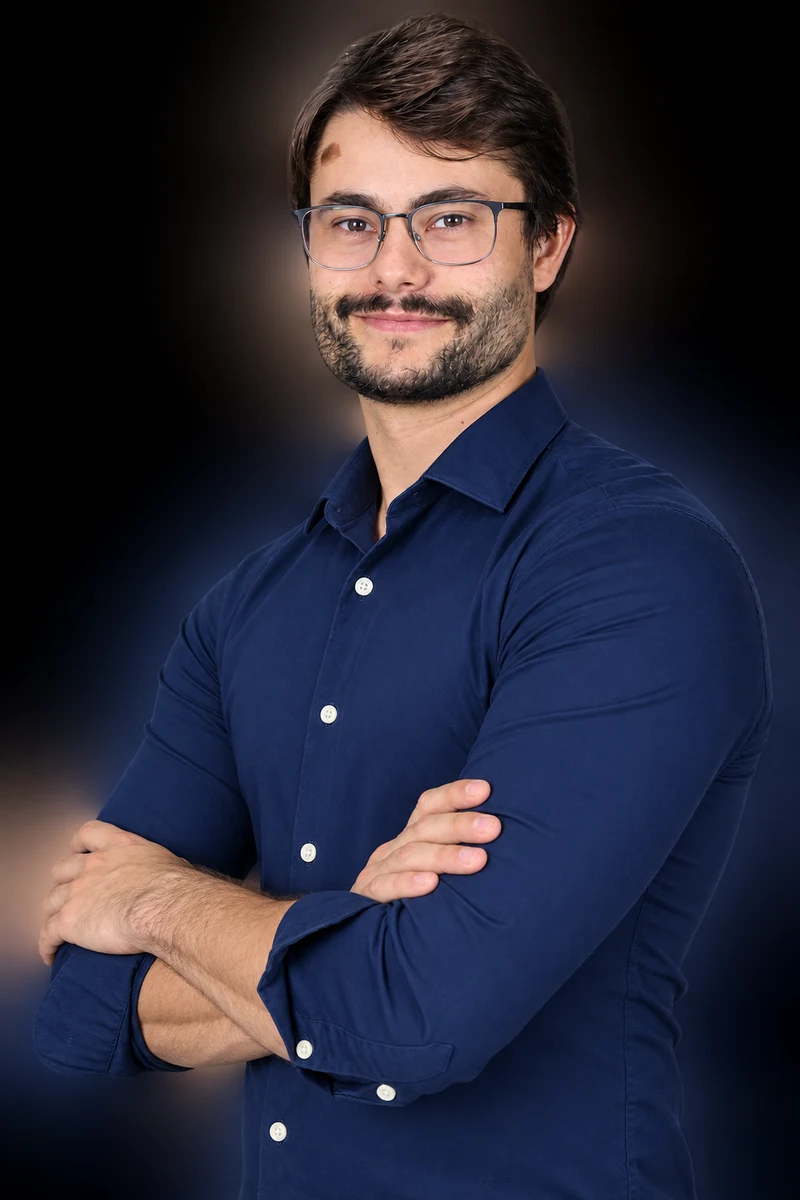
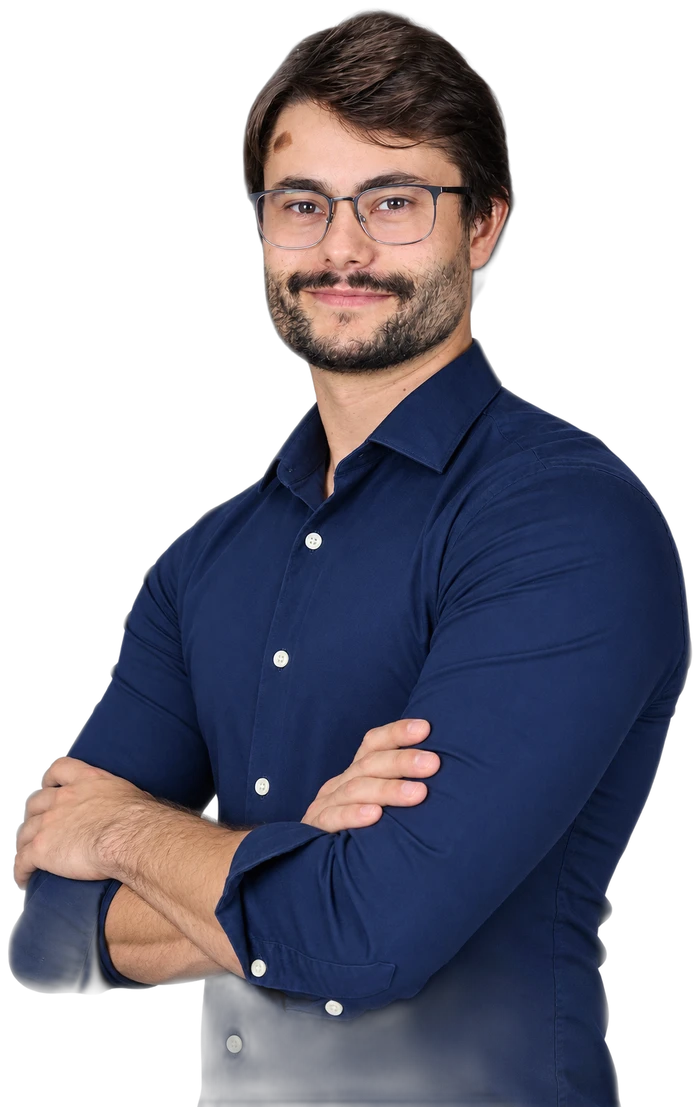
Remove o fundo da foto do fundador e volta ao recorte flutuante
A versão anterior mostrava a foto dentro de um card com fundo escuro
visível. Aplica remoção de fundo (rembg) na nova foto e volta ao
tratamento flutuante sobre o navy, com fade nos pés e um brilho sutil
atrás — mantendo o watermark do "N" já adicionado na seção.

diff --git a/src/components/FounderSection.tsx b/src/components/FounderSection.tsx
@@ -25,15 +25,19 @@ export function FounderSection() {
           <div className="relative">
             <div
               aria-hidden="true"
-              className="absolute -inset-6 rounded-[2.5rem] bg-gradient-to-br from-accent/25 via-accent/10 to-transparent blur-2xl"
+              className="absolute left-1/2 top-1/3 h-64 w-64 -translate-x-1/2 -translate-y-1/2 rounded-full bg-accent/25 blur-[80px]"
             />
             <img
               src={images.founder}
               alt={`${founder.name}, ${founder.role}`}
-              width={800}
-              height={1200}
+              width={700}
+              height={1107}
               loading="lazy"
-              className="relative h-[420px] w-[280px] rounded-3xl object-cover shadow-2xl ring-1 ring-white/10 sm:h-[480px] sm:w-[320px] lg:h-[560px] lg:w-[373px]"
+              className="relative h-[420px] w-auto object-contain drop-shadow-[0_30px_40px_rgba(0,0,0,0.45)] sm:h-[480px] lg:h-[560px]"
+              style={{
+                maskImage: "linear-gradient(to bottom, black 85%, transparent 99%)",
+                WebkitMaskImage: "linear-gradient(to bottom, black 85%, transparent 99%)",
+              }}
             />
           </div>
         </div>
